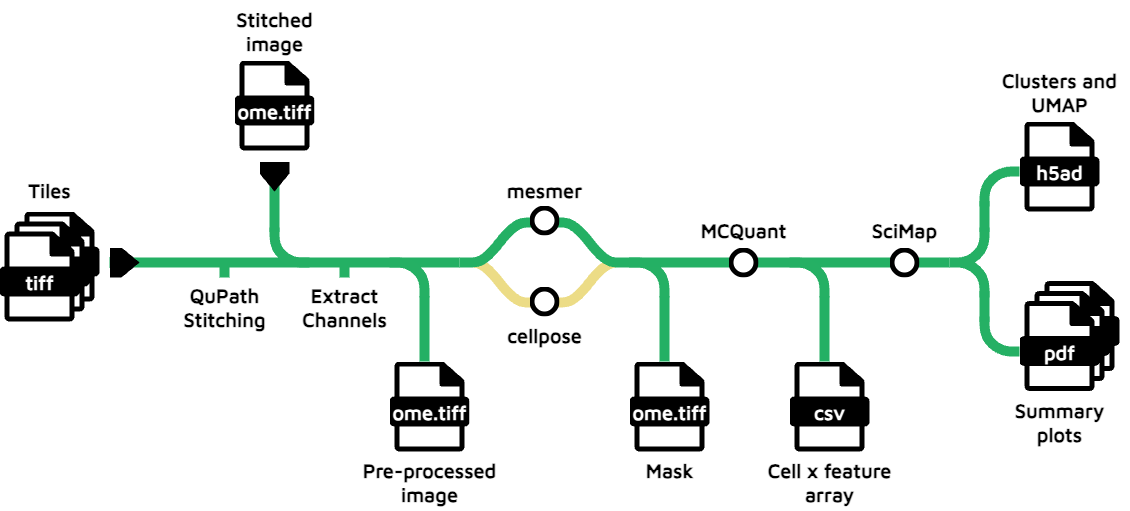
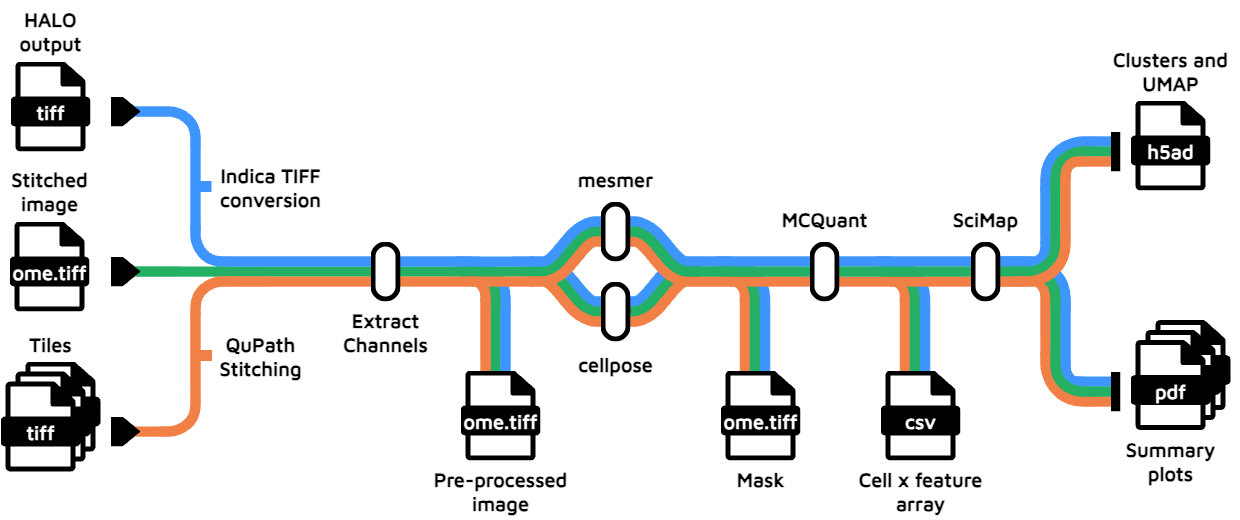
fused and stitched input options and preprocessing

Changed region(s): [[0.0, 0.0294, 1.0, 0.998]]

diff --git a/bin/indicaTIFF_to_ome.py b/bin/indicaTIFF_to_ome.py
@@ -1,0 +1,121 @@
+#!/usr/bin/env python
+
+## from: https://forum.image.sc/t/trouble-generating-ome-tiffs-in-the-right-shape/89191/7
+
+import argparse
+from xml.etree import ElementTree
+from tifffile import TiffFile, TiffWriter
+from xml.dom import minidom
+
+def tiles(series):
+    # yield raw tiles from all pages in TIFF series
+    fh = series.parent.filehandle
+    for page in series:
+        for offset, bytecount in zip(page.dataoffsets, page.databytecounts):
+            fh.seek(offset)
+            yield fh.read(bytecount)
+
+
+def main():
+    parser = argparse.ArgumentParser(description="Convert HALO/Indica tif to OME tif")
+    parser.add_argument("-o", "--output", type=str, required=True, help="Output .ome.tif file")
+    parser.add_argument("-i", "--image", type=str, required=True, help="Input .tif image")
+
+    args = parser.parse_args()
+
+    with TiffFile(args.image) as tif:
+        print(tif)
+
+        tree = ElementTree.fromstring(tif.pages.first.description)
+        channel_names = [
+            channel.attrib['name'] for channel in tree.iter('channel')
+        ]
+
+        with TiffWriter(
+            args.output, bigtiff=True, ome=True, byteorder=tif.byteorder
+        ) as ome:
+            for series in tif.series:
+                print("SERIES:", series)
+                print("  series.axes:", series.axes, "series.shape:", series.shape)
+                assert series.axes == 'IYX'
+                assert series.shape[0] == len(channel_names)
+
+                for i, level in enumerate(series.levels):
+                    page = level.keyframe
+                    print("  LEVEL", i, "level.shape:", level.shape, "page.keyframe.shape:", getattr(page, 'shape', None))
+                    print("    page.imagewidth:", getattr(page, 'imagewidth', None),
+                          "page.imagelength:", getattr(page, 'imagelength', None))
+                    print("    page.tile:", getattr(page, 'tile', None))
+                    print("    TileWidth/TileLength tags:",
+                          page.tags.get('TileWidth'), page.tags.get('TileLength'))
+
+                    assert page.is_tiled
+
+                    # --- compute rows/cols and samples confidently from page tags ---
+                    rows = getattr(page, 'imagelength', None)
+                    cols = getattr(page, 'imagewidth', None)
+                    # number of channels/samples (fall back to level.shape if unsure)
+                    samples = series.shape[0] if series.shape else (level.shape[0] if len(level.shape) == 3 else 1)
+
+                    # If level.shape looks like (rows, cols, samples) convert to (samples, rows, cols)
+                    if len(level.shape) == 3:
+                        a, b, c = level.shape
+                        if (a == rows and b == cols and c == samples):
+                            inferred_shape = (samples, rows, cols)
+                        elif (a == samples and b == rows and c == cols):
+                            inferred_shape = (a, b, c)  # already (samples, rows, cols)
+                        else:
+                            # fallback to explicit (samples, rows, cols)
+                            inferred_shape = (samples, rows, cols)
+                    else:
+                        inferred_shape = (rows, cols)
+
+                    # get tile dims from tags if present (TileWidth, TileLength)
+                    try:
+                        tile_w = page.tags['TileWidth'].value
+                        tile_l = page.tags['TileLength'].value
+                        tile = (tile_w, tile_l)
+                    except Exception:
+                        tile = page.tile or None
+
+                    if i == 0:
+                        # base-level metadata construction (unchanged)
+                        if len(series.levels) > 1:
+                            subifds = len(series.levels) - 1
+                        else:
+                            subifds = None
+                        resx, resy = page.get_resolution('micrometer')
+                        metadata = {
+                            'axes': 'CYX',
+                            'PhysicalSizeX': resx,
+                            'PhysicalSizeXUnit': 'µm',
+                            'PhysicalSizeY': resy,
+                            'PhysicalSizeYUnit': 'µm',
+                            'Channel': {'Name': channel_names},
+                        }
+                    else:
+                        subifds = None
+                        metadata = None
+
+                    dtype = 'float32' if level.dtype == 'uint32' else level.dtype
+
+                    print("    -> writing with shape:", inferred_shape, "tile:", tile)
+
+                    ome.write(
+                        tiles(level),
+                        shape=inferred_shape,
+                        dtype=dtype,
+                        photometric=page.photometric,
+                        compression=page.compression,
+                        resolution=page.resolution,
+                        resolutionunit=page.resolutionunit,
+                        tile=tile,
+                        subifds=subifds,
+                        metadata=metadata,
+                    )
+
+    return
+
+
+if __name__ == "__main__":
+    main()

diff --git a/bin/extract_image_channel.py b/bin/extract_image_channel.py
@@ -1,11 +1,13 @@
 #!/usr/bin/env python
 
 # Written by Song Li & Patrick Crock
-# Version 0.0.2 - Fixed critical bugs
+# Version 0.0.3 - Made extraction robust to dimension order
 import sys, os
 import argparse
 import xml.etree.ElementTree as ET
 import skimage.io
+import tifffile
+import numpy as np
 
 def extract_channel(xml, channel_name):
     tree = ET.parse(xml)
@@ -25,18 +27,26 @@ def extract_channel(xml, channel_name):
     return None
 
 def save_channel_image(ch, img_path, out_path):
-    img = skimage.io.imread(img_path)
+    with tifffile.TiffFile(img_path) as tif:
+        arr = tif.asarray()
+        axes = tif.series[0].axes
+        print("Array shape:", arr.shape, "Axes:", axes)
 
-    # Ensure we have the right number of dimensions
-    if len(img.shape) < 3:
-        print(f"Error: Image has only {len(img.shape)} dimensions, expected at least 3")
+    if "C" in axes:
+        c_index = axes.index("C")
+    elif "S" in axes:
+        c_index = axes.index("S")
+    else:
+        raise RuntimeError(f"No channel axis in axes string {axes}")
+
+    # move channel axis to last for consistency
+    arr = np.moveaxis(arr, c_index, -1)
+
+    if ch >= arr.shape[-1]:
+        print(f"Error: Channel {ch} not found, image has {arr.shape[-1]} channels")
         sys.exit(os.EX_SOFTWARE)
 
-    if ch >= img.shape[2]:
-        print(f"Error: Channel {ch} not found, image has {img.shape[2]} channels")
-        sys.exit(os.EX_SOFTWARE)
-
-    channel = img[:, :, ch]  # Extract the correct channel
+    channel = arr[..., ch]
     skimage.io.imsave(out_path, channel)
 
 def main():
